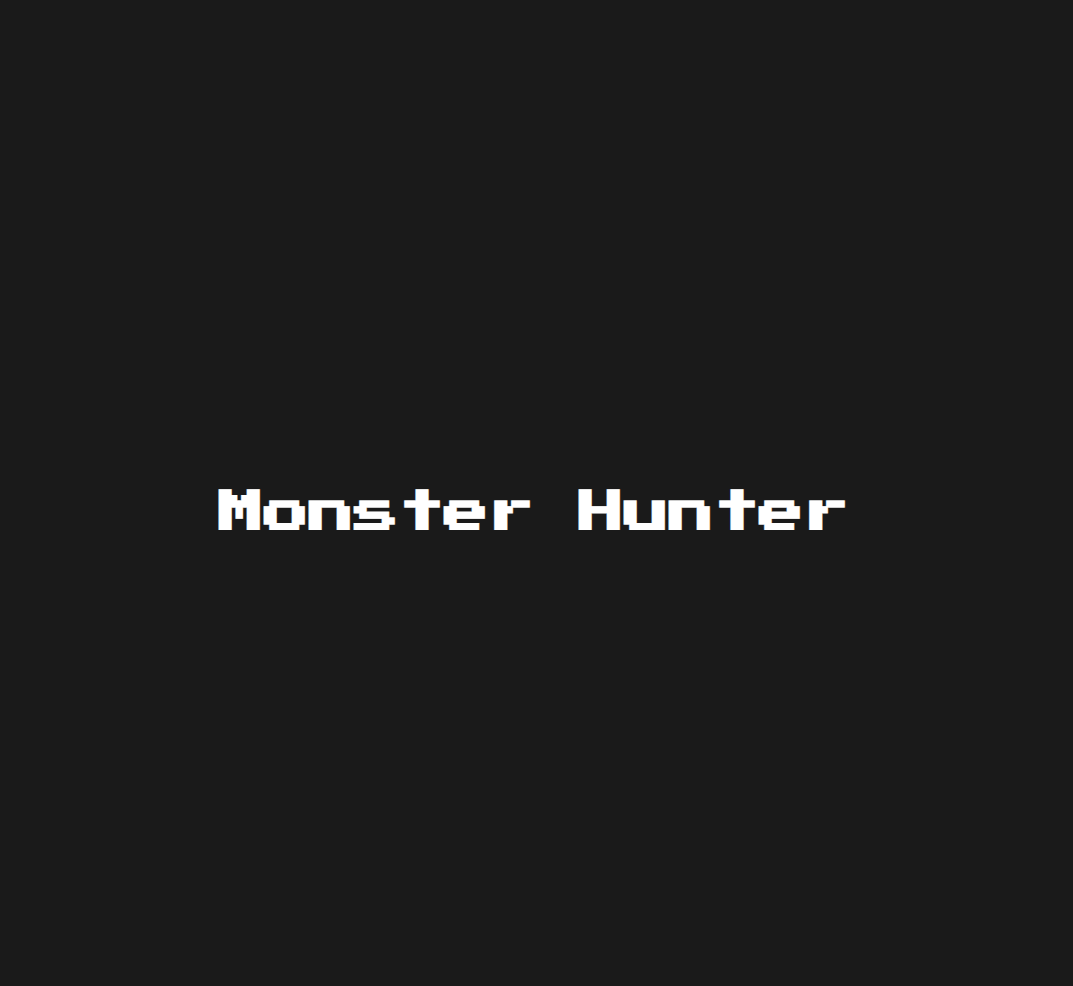
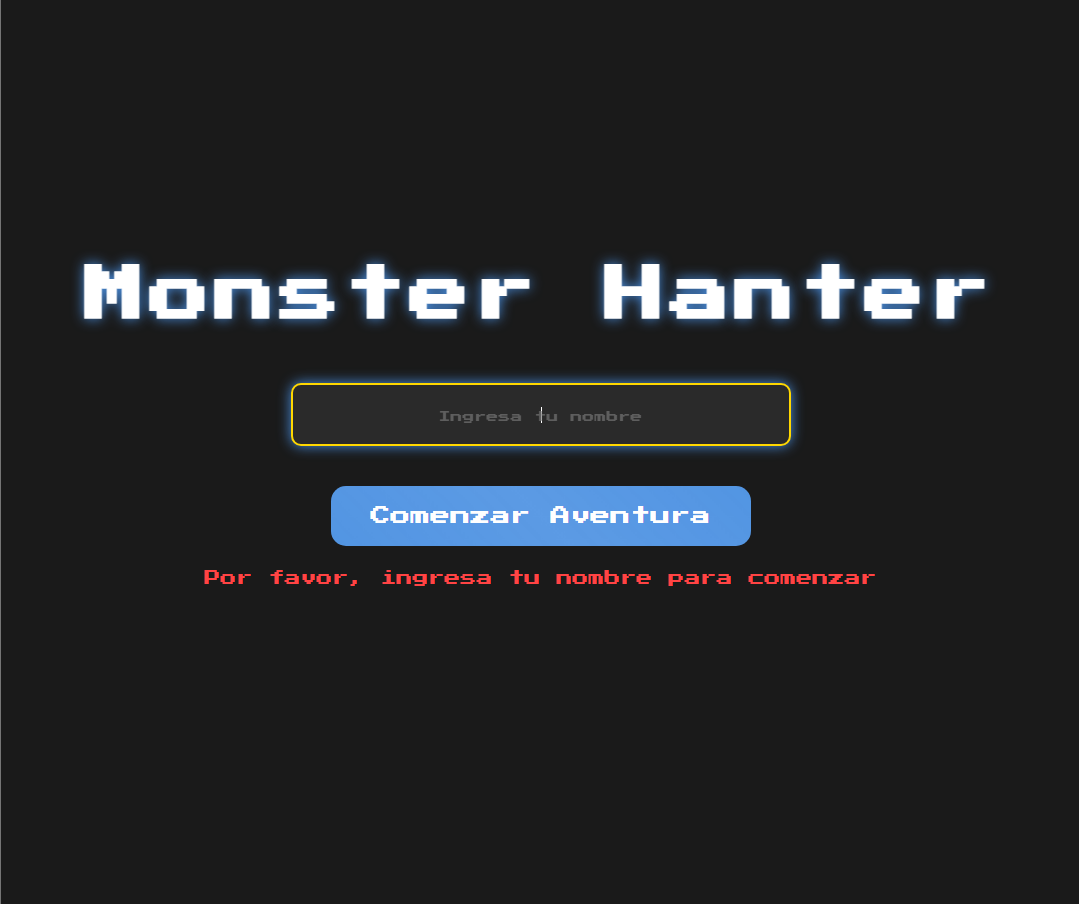
Inicio al juego

diff --git a/client/src/pages/Home.jsx b/client/src/pages/Home.jsx
@@ -1,5 +1,14 @@
-import React from 'react';
-import styled from 'styled-components';
+import React, { useState } from 'react';
+import { useNavigate } from 'react-router-dom';
+import styled, { keyframes } from 'styled-components';
+import { motion } from 'framer-motion';
+import { useGameStore } from '../stores/gameStore';
+
+const pulseAnimation = keyframes`
+  0% { transform: scale(1); }
+  50% { transform: scale(1.05); }
+  100% { transform: scale(1); }
+`;
 
 const HomeContainer = styled.div`
     width: 100%;
@@ -10,18 +19,145 @@ const HomeContainer = styled.div`
     justify-content: center;
     background-color: ${props => props.theme.colors.background};
     color: ${props => props.theme.colors.text};
+    position: relative;
+    overflow: hidden;
+    padding: 20px;
 `;
 
-const Title = styled.h1`
+const Title = styled(motion.h1)`
     font-size: 3rem;
     margin-bottom: 2rem;
+    text-align: center;
+    text-shadow: 0 0 10px ${props => props.theme.colors.primary};
+    letter-spacing: 4px;
+
+    @media (max-width: 768px) {
+        font-size: 2rem;
+    }
+`;
+
+const StartButton = styled(motion.button)`
+    padding: 1rem 2rem;
+    font-size: 1rem;
+    background-color: ${props => props.theme.colors.primary};
+    color: ${props => props.theme.colors.text};
+    border: none;
+    border-radius: 12px;
+    cursor: pointer;
+    font-family: 'Press Start 2P', cursive;
+    position: relative;
+    overflow: hidden;
+    transition: all 0.3s ease;
+    
+    &:hover {
+        background-color: ${props => props.theme.colors.secondary};
+        transform: translateY(-2px);
+        box-shadow: 0 5px 15px rgba(0,0,0,0.3);
+    }
+
+    &:before {
+        content: '';
+        position: absolute;
+        top: -50%;
+        left: -50%;
+        width: 200%;
+        height: 200%;
+        background: linear-gradient(
+            45deg,
+            transparent,
+            rgba(255,255,255,0.1),
+            transparent
+        );
+        transform: rotate(45deg);
+        animation: ${pulseAnimation} 2s infinite;
+    }
+`;
+
+const InputName = styled(motion.input)`
+    padding: 0.8rem;
+    font-size: 0.8rem;
+    background-color: ${props => props.theme.colors.surface};
+    color: ${props => props.theme.colors.text};
+    border: 2px solid ${props => props.theme.colors.primary};
+    border-radius: 8px;
+    margin-bottom: 2rem;
+    font-family: 'Press Start 2P', cursive;
+    text-align: center;
+    width: 100%;
+    max-width: 400px;
+    height: 50px;
+
+    &::placeholder {
+        font-size: 0.6rem;
+        opacity: 0.7;
+    }
+
+    &:focus {
+        outline: none;
+        border-color: ${props => props.theme.colors.secondary};
+        box-shadow: 0 0 10px ${props => props.theme.colors.primary};
+    }
+`;
+
+const ErrorText = styled.p`
+    color: ${props => props.theme.colors.error};
+    margin-top: 1rem;
+    font-size: 0.8rem;
     text-align: center;
 `;
 
 const Home = () => {
+    const navigate = useNavigate();
+    const [playerName, setPlayerName] = useState('');
+    const [error, setError] = useState('');
+    const { crearJugador } = useGameStore();
+
+    const handleStart = async () => {
+        if (!playerName.trim()) {
+            setError('Por favor, ingresa tu nombre para comenzar');
+            return;
+        }
+
+        try {
+            const jugador = await crearJugador(playerName);
+            navigate('/game');
+        } catch (error) {
+            setError('Error al crear el jugador. Intenta de nuevo.');
+        }
+    };
+
     return (
         <HomeContainer>
-            <Title>Monster Hanter</Title>
+            <Title
+                initial={{ y: -100, opacity: 0 }}
+                animate={{ y: 0, opacity: 1 }}
+                transition={{ duration: 0.8, type: "spring" }}
+            >
+                Monster Hanter
+            </Title>
+
+            <InputName
+                initial={{ opacity: 0, scale: 0.5 }}
+                animate={{ opacity: 1, scale: 1 }}
+                transition={{ delay: 0.3, duration: 0.5 }}
+                placeholder="Ingresa tu nombre"
+                value={playerName}
+                onChange={(e) => setPlayerName(e.target.value)}
+                maxLength={20}
+            />
+
+            <StartButton
+                initial={{ opacity: 0, y: 50 }}
+                animate={{ opacity: 1, y: 0 }}
+                transition={{ delay: 0.6, duration: 0.5 }}
+                whileHover={{ scale: 1.05 }}
+                whileTap={{ scale: 0.95 }}
+                onClick={handleStart}
+            >
+                Comenzar Aventura
+            </StartButton>
+
+            {error && <ErrorText>{error}</ErrorText>}
         </HomeContainer>
     );
 };
